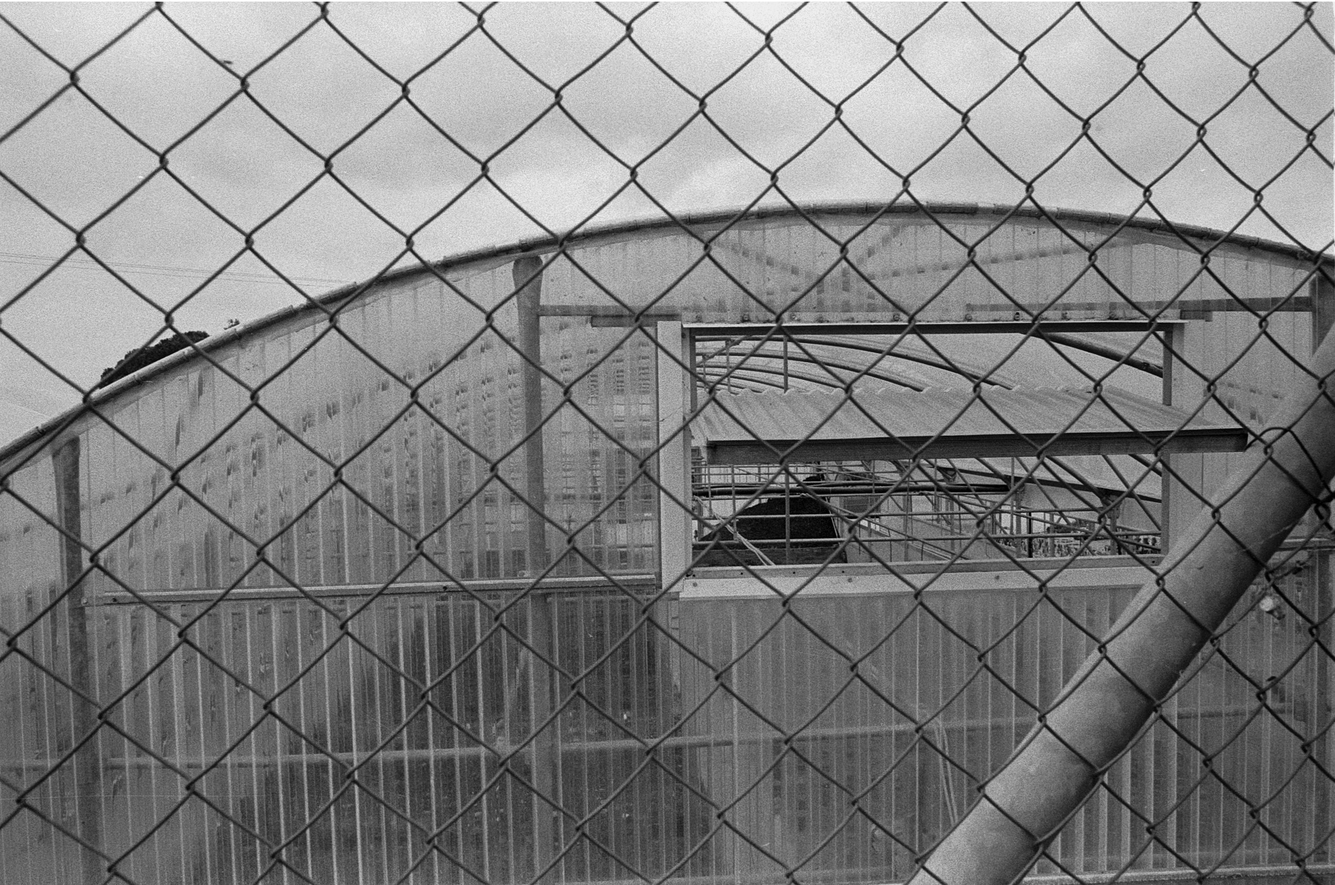
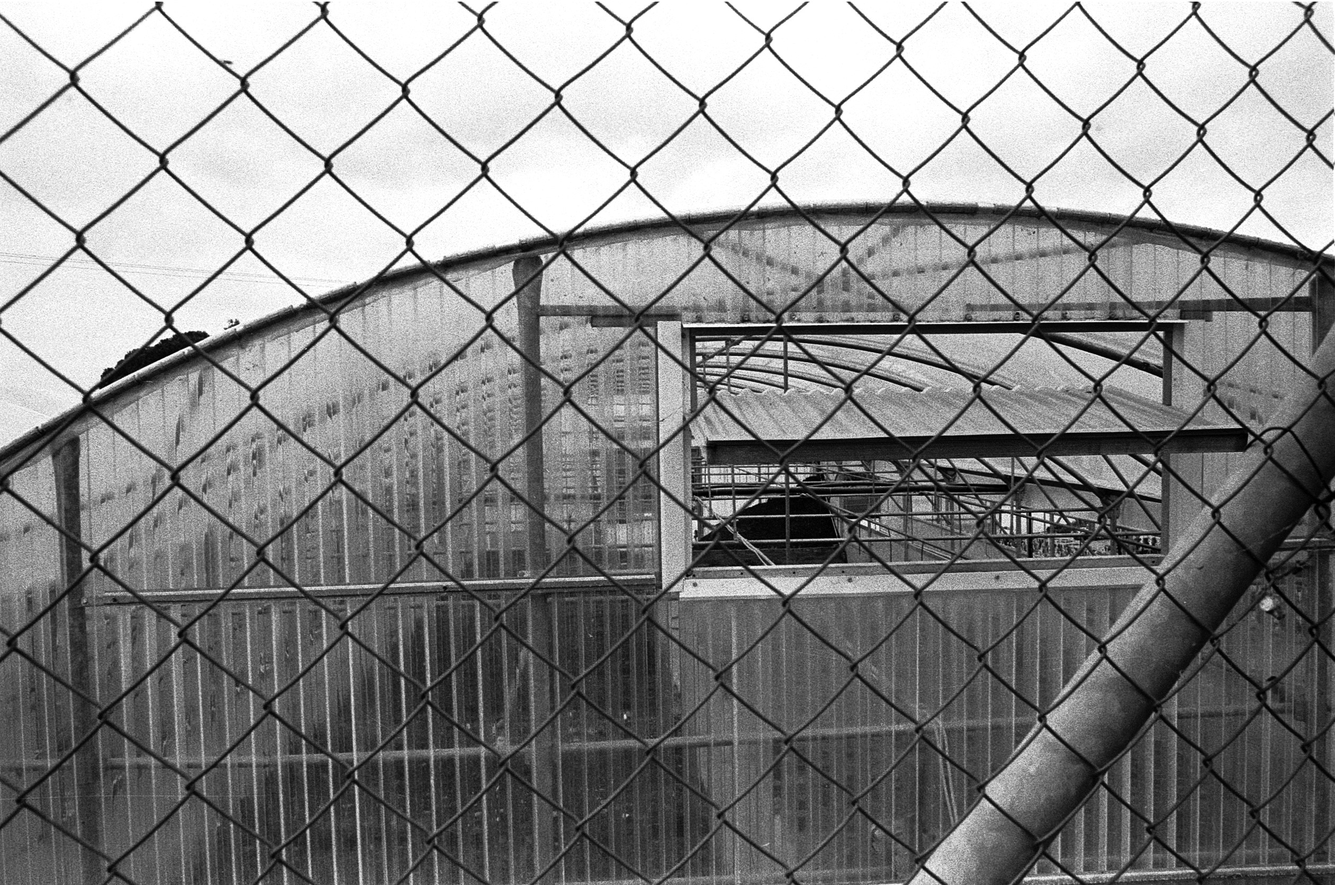
phot

diff --git a/script.js b/script.js
@@ -46,21 +46,74 @@ const projects = [
     ]
   }
 
-  /*
-  ADD ANOTHER PROJECT LIKE THIS:
 
-  ,{
-    title: "Athens",
-    cover: "images/athens/cover.jpg",
+,{
+  title: "XX",
+  cover: "/photos/XX_15.jpg",
 
-    photos: [
-      "images/athens/01.jpg",
-      "images/athens/02.jpg",
-      "images/athens/03.jpg"
-    ]
-  }
+  photos: [
+    "/photos/XX_01.jpg",
+    "/photos/XX_02.jpg",
+    "/photos/XX_03.jpg",
+    "/photos/XX_04.jpg",
+    "/photos/XX_05.jpg",
+    "/photos/XX_06.jpg",
+    "/photos/XX_07.jpg",
+    "/photos/XX_08.jpg",
+    "/photos/XX_09.jpg",
+    "/photos/XX_10.jpg",
+    "/photos/XX_11.jpg",
+    "/photos/XX_12.jpg",
+    "/photos/XX_13.jpg",
+    "/photos/XX_14.jpg",
+    "/photos/XX_15.jpg",
+    "/photos/XX_16.jpg",
+    "/photos/XX_17.jpg",
 
-  */
+  ]
+}
+,{
+  title: "HELLO...GOODBYE",
+  cover: "/photos/HELLO...GOODBYE_08.jpg",
+
+  photos: [
+    "photos/HELLO...GOODBYE_01.jpg",
+    "photos/HELLO...GOODBYE_02.jpg",
+    "photos/HELLO...GOODBYE_03.jpg",
+    "photos/HELLO...GOODBYE_04.jpg",
+    "photos/HELLO...GOODBYE_05.jpg",
+    "photos/HELLO...GOODBYE_06.jpg",
+    "photos/HELLO...GOODBYE_07.jpg",
+    "photos/HELLO...GOODBYE_08.jpg",
+    "photos/HELLO...GOODBYE_09.jpg",
+    "photos/HELLO...GOODBYE_10.jpg",
+    "photos/HELLO...GOODBYE_11.jpg",
+    "photos/HELLO...GOODBYE_12.jpg",
+    "photos/HELLO...GOODBYE_13.jpg",
+    "photos/HELLO...GOODBYE_14.jpg",
+    "photos/HELLO...GOODBYE_15.jpg",
+    "photos/HELLO...GOODBYE_16.jpg",
+  ]
+}
+,{
+  title: "Untitled",
+  cover: "photos/UNTITLED_06.jpg",
+
+  photos: [
+    "photos/UNTITLED_01.jpg",
+    "photos/UNTITLED_02.jpg",
+    "photos/UNTITLED_03.jpg",
+    "photos/UNTITLED_04.jpg",
+    "photos/UNTITLED_05.jpg",
+    "photos/UNTITLED_06.jpg",
+    "photos/UNTITLED_07.jpg",
+    "photos/UNTITLED_08.jpg",
+    "photos/UNTITLED_09.jpg",
+    "photos/UNTITLED_10.jpg",
+    "photos/UNTITLED_11.jpg",
+    "photos/UNTITLED_12.jpg",
+    "photos/UNTITLED_13.jpg"
+  ]
 
 ];
 
